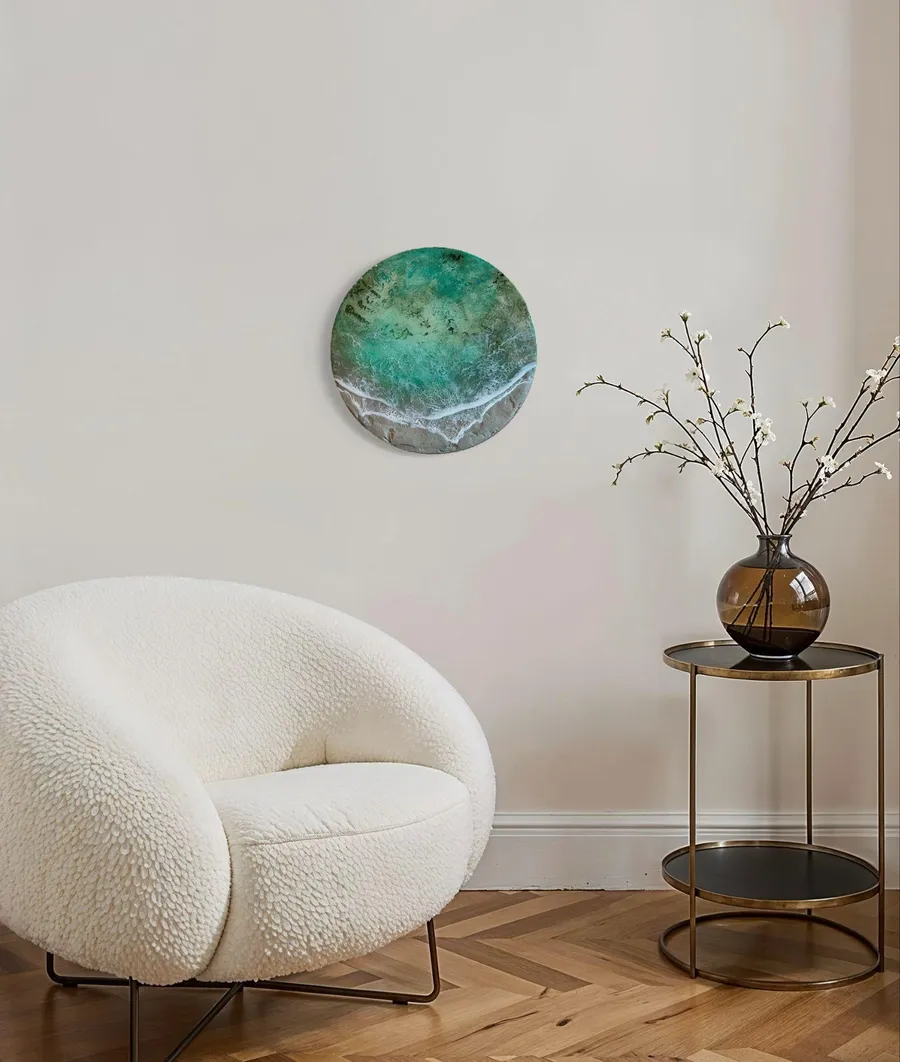
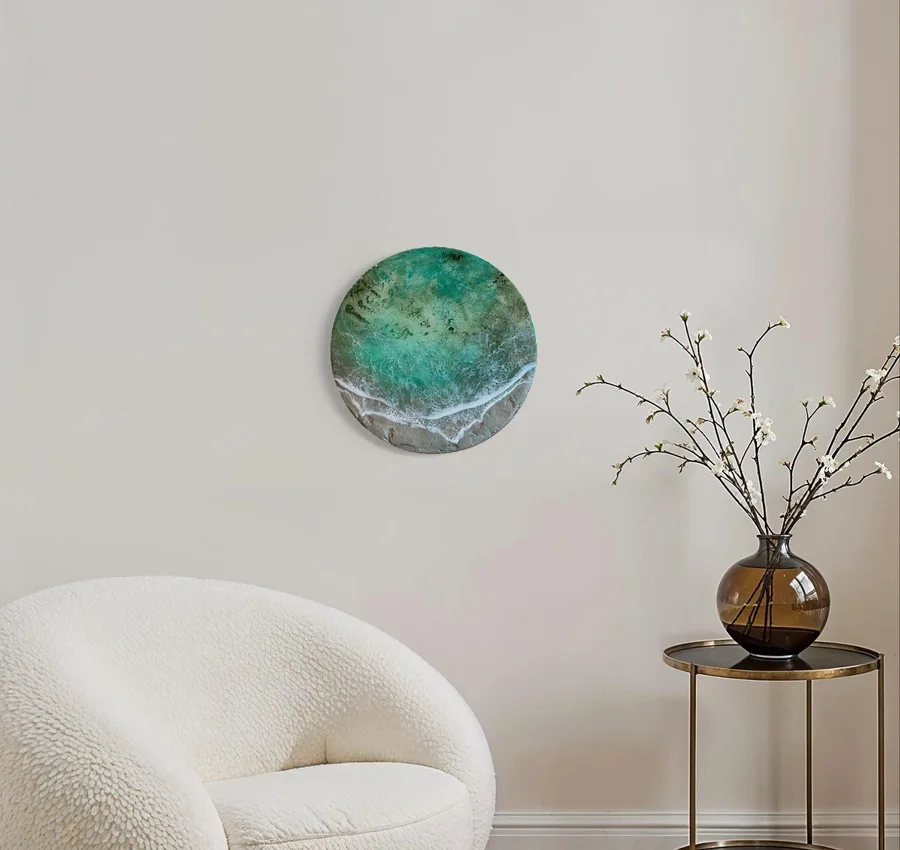
丸い作品の写真：椅子とテーブルの脚が不自然なので下を切った

diff --git a/rules/index.html b/rules/index.html
@@ -80,8 +80,8 @@
       <img src="../assets/img/g-a2-wave.webp" alt="" loading="lazy"><img src="../assets/img/image8.webp" alt="" loading="lazy"><img src="../assets/img/g-a3-reef.webp" alt="" loading="lazy"><img src="../assets/img/image33.webp" alt="" loading="lazy"><img src="../assets/img/g-a4-rock.webp" alt="" loading="lazy">
     </div></div>
     <div class="loop loop--r"><div class="loop__track">
-      <img src="../assets/img/image14.webp" alt="" loading="lazy"><img src="../assets/img/image26.webp" alt="" loading="lazy"><img src="../assets/img/g-a1-sea.webp" alt="" loading="lazy"><img src="../assets/img/image10.webp" alt="" loading="lazy"><img src="../assets/img/image21.webp" alt="" loading="lazy">
-      <img src="../assets/img/image14.webp" alt="" loading="lazy"><img src="../assets/img/image26.webp" alt="" loading="lazy"><img src="../assets/img/g-a1-sea.webp" alt="" loading="lazy"><img src="../assets/img/image10.webp" alt="" loading="lazy"><img src="../assets/img/image21.webp" alt="" loading="lazy">
+      <img src="../assets/img/image14.webp" alt="" loading="lazy"><img src="../assets/img/image26.webp" alt="" loading="lazy"><img src="../assets/img/g-a1-sea.webp" alt="" loading="lazy"><img src="../assets/img/image10.webp" alt="" loading="lazy"><img src="../assets/img/image21.webp?v=2" alt="" loading="lazy">
+      <img src="../assets/img/image14.webp" alt="" loading="lazy"><img src="../assets/img/image26.webp" alt="" loading="lazy"><img src="../assets/img/g-a1-sea.webp" alt="" loading="lazy"><img src="../assets/img/image10.webp" alt="" loading="lazy"><img src="../assets/img/image21.webp?v=2" alt="" loading="lazy">
     </div></div>
   </div>
   <h2 class="vhead">海の風景<span>GALLERY</span></h2>
@@ -128,7 +128,7 @@
     <ul class="biz__list">
       <li><img src="../assets/img/image5.webp" alt="" loading="lazy">ホテル・ヴィラ・民泊</li>
       <li><img src="../assets/img/image25.webp" alt="" loading="lazy">クリニック・事務所</li>
-      <li><img src="../assets/img/image21.webp" alt="" loading="lazy">カフェ・サロン・店舗</li>
+      <li><img src="../assets/img/image21.webp?v=2" alt="" loading="lazy">カフェ・サロン・店舗</li>
       <li><img src="../assets/img/image33.webp" alt="" loading="lazy">別荘・クルーザー</li>
     </ul>
     <div class="biz__foot"><a class="btn btn--w" href="business/">法人・設計事務所の方へ</a><p>導入先の例：歯科クリニックの待合室、事務所、工務店の打ち合わせテーブル、海外の投資用民泊物件、ヴィラ</p></div>

diff --git a/index.html b/index.html
@@ -60,8 +60,8 @@
       <img src="assets/img/g-a2-wave.webp" alt="" loading="lazy"><img src="assets/img/image8.webp" alt="" loading="lazy"><img src="assets/img/g-a3-reef.webp" alt="" loading="lazy"><img src="assets/img/image33.webp" alt="" loading="lazy"><img src="assets/img/g-a4-rock.webp" alt="" loading="lazy">
     </div></div>
     <div class="loop loop--r"><div class="loop__track">
-      <img src="assets/img/image14.webp" alt="" loading="lazy"><img src="assets/img/image26.webp" alt="" loading="lazy"><img src="assets/img/g-a1-sea.webp" alt="" loading="lazy"><img src="assets/img/image10.webp" alt="" loading="lazy"><img src="assets/img/image21.webp" alt="" loading="lazy">
-      <img src="assets/img/image14.webp" alt="" loading="lazy"><img src="assets/img/image26.webp" alt="" loading="lazy"><img src="assets/img/g-a1-sea.webp" alt="" loading="lazy"><img src="assets/img/image10.webp" alt="" loading="lazy"><img src="assets/img/image21.webp" alt="" loading="lazy">
+      <img src="assets/img/image14.webp" alt="" loading="lazy"><img src="assets/img/image26.webp" alt="" loading="lazy"><img src="assets/img/g-a1-sea.webp" alt="" loading="lazy"><img src="assets/img/image10.webp" alt="" loading="lazy"><img src="assets/img/image21.webp?v=2" alt="" loading="lazy">
+      <img src="assets/img/image14.webp" alt="" loading="lazy"><img src="assets/img/image26.webp" alt="" loading="lazy"><img src="assets/img/g-a1-sea.webp" alt="" loading="lazy"><img src="assets/img/image10.webp" alt="" loading="lazy"><img src="assets/img/image21.webp?v=2" alt="" loading="lazy">
     </div></div>
   </div>
   <h2 class="vhead">海の風景<span>GALLERY</span></h2>
@@ -140,7 +140,7 @@
     <ul class="biz__list reveal">
       <li><img src="assets/img/image5.webp" alt="" loading="lazy">ホテル・ヴィラ・民泊</li>
       <li><img src="assets/img/image25.webp" alt="" loading="lazy">クリニック・事務所</li>
-      <li><img src="assets/img/image21.webp" alt="" loading="lazy">ダイビングショップ・店舗</li>
+      <li><img src="assets/img/image21.webp?v=2" alt="" loading="lazy">ダイビングショップ・店舗</li>
       <li><img src="assets/img/image33.webp" alt="" loading="lazy">別荘・クルーザー</li>
     </ul>
     <div class="biz__foot reveal"><a class="btn btn--w" href="#contact">法人・設計者の方へ</a><p>導入先の例：歯科クリニックの待合室、事務所、工務店の打ち合わせテーブル、海外の投資用民泊物件、ヴィラ</p></div>

diff --git a/rules/business/index.html b/rules/business/index.html
@@ -44,7 +44,7 @@
     <div class="cards cards--2">
       <div class="card"><img src="../../assets/img/image5.webp" alt="" loading="lazy"><h3>ホテル・ヴィラ・民泊</h3><p>ロビーや客室に。宿の窓から見える海と色をそろえることもできます。</p></div>
       <div class="card"><img src="../../assets/img/image25.webp" alt="" loading="lazy"><h3>クリニック・事務所</h3><p>待合室の壁や、応接・打ち合わせのテーブルに。</p></div>
-      <div class="card"><img src="../../assets/img/image21.webp" alt="" loading="lazy"><h3>カフェ・サロン・店舗</h3><p>お店の入口やカウンターの後ろに。カウンターの天板にもできます。</p></div>
+      <div class="card"><img src="../../assets/img/image21.webp?v=2" alt="" loading="lazy"><h3>カフェ・サロン・店舗</h3><p>お店の入口やカウンターの後ろに。カウンターの天板にもできます。</p></div>
       <div class="card"><img src="../../assets/img/image33.webp" alt="" loading="lazy"><h3>別荘・クルーザー</h3><p>船内やリビングなど、限られた壁に合わせて作ります。</p></div>
     </div>
   </div>

diff --git a/rules/works/index.html b/rules/works/index.html
@@ -57,7 +57,7 @@
 <article class="card"><a href="../works/w01/"><img src="../../assets/img/image14.webp" alt="珊瑚礁の浅瀬を表した海のレジンアート" loading="lazy" width="800" height="600">
   <h3>No.05</h3></a>
   <p>壁掛け（四角）</p><p class="meta"><span>サイズ<span class="tbd">【要確認】</span></span><span>価格<span class="tbd">【要確認】</span></span></p></article>
-<article class="card"><a href="../works/w01/"><img src="../../assets/img/image21.webp" alt="深い青の海を表した丸いレジンアート" loading="lazy" width="800" height="600">
+<article class="card"><a href="../works/w01/"><img src="../../assets/img/image21.webp?v=2" alt="深い青の海を表した丸いレジンアート" loading="lazy" width="800" height="600">
   <h3>No.06</h3></a>
   <p>壁掛け（丸）</p><p class="meta"><span>サイズ<span class="tbd">【要確認】</span></span><span>価格<span class="tbd">【要確認】</span></span></p></article>
 
